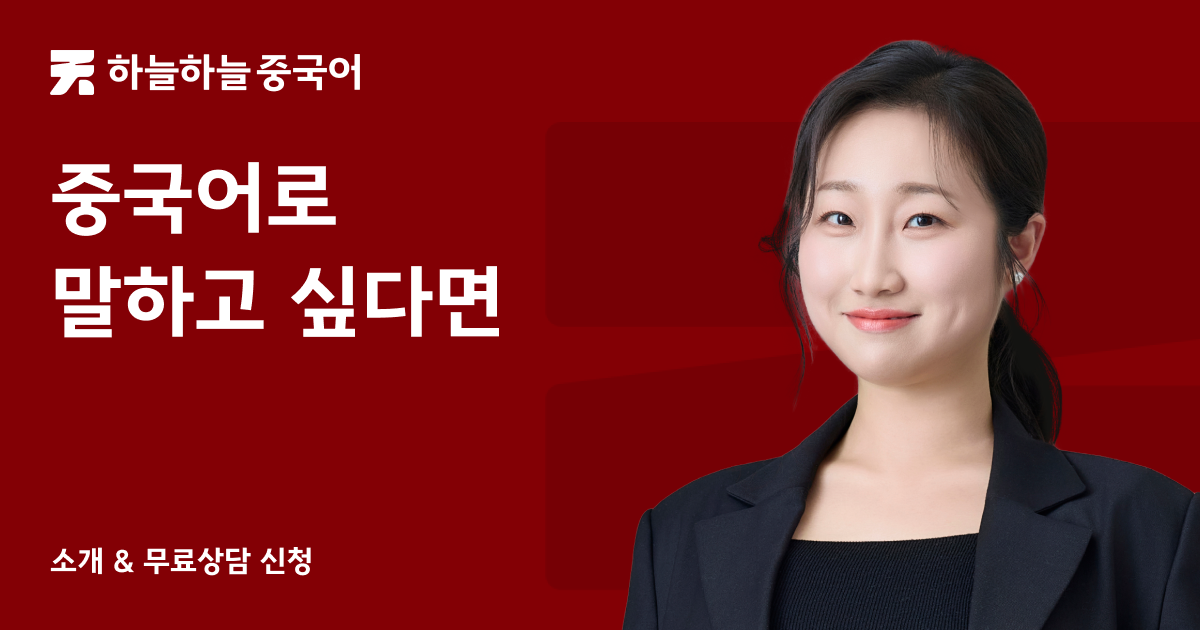
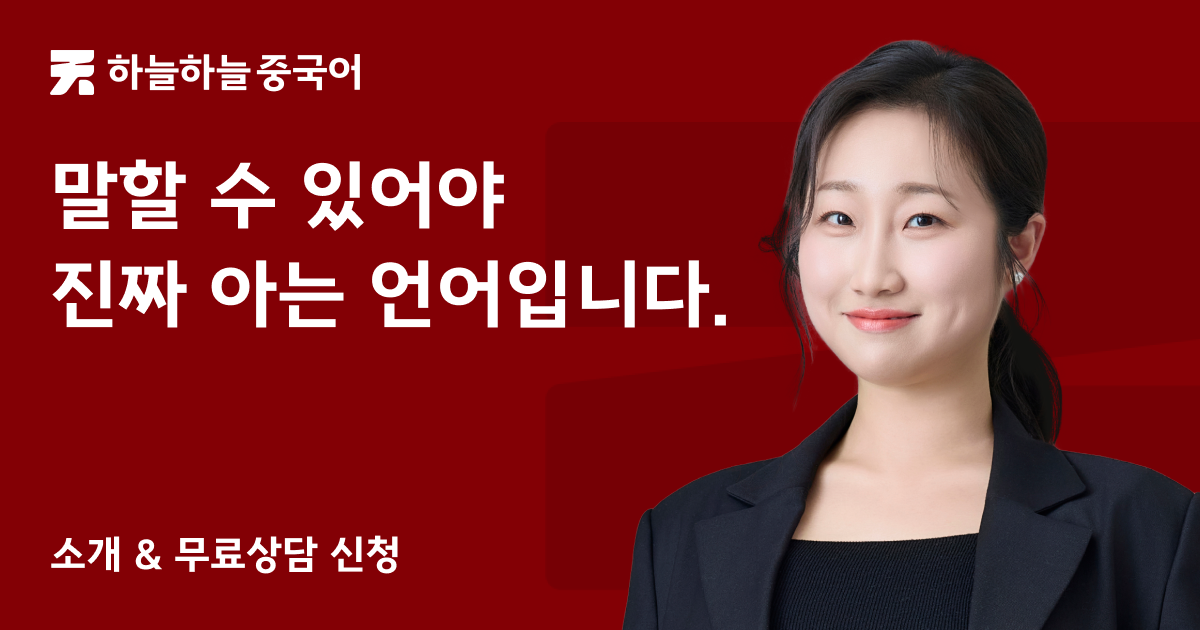
feat: 소개 히어로 문구 수정 및 카카오톡 OG 이미지 업데이트

Changed region(s): [[0.0308, 0.2413, 0.6167, 0.5429], [0.0308, 0.8444, 0.3392, 0.9349]]

diff --git a/pwa/src/components/IntroContent.jsx b/pwa/src/components/IntroContent.jsx
@@ -232,13 +232,14 @@ export default function IntroContent({ onConsult, onFloatChange }) {
                 lineHeight: 1.3, margin: '0 0 12px',
                 textWrap: 'balance',
               }}>
-                중국어로<br />말하고 싶다면
+                말할 수 있어야<br />진짜 아는 언어입니다.
               </h1>
             </FadeUp>
             <FadeUp delay={200}>
               <p style={{ color: 'rgba(255,255,255,0.85)', fontSize: 14, lineHeight: 1.6, margin: '0 0 36px' }}>
-                10년 경력의 중국어 전문 강사와 함께<br />
-                입문부터 초중급까지 체계적으로.
+                10년의 노하우로 이끄는 다정한 여정.<br />
+                서툰 첫걸음이 막힘없는 대화가 되기까지,<br />
+                가장 든든한 페이스메이커가 되어드릴게요.
               </p>
             </FadeUp>
             <FadeUp delay={300}>
